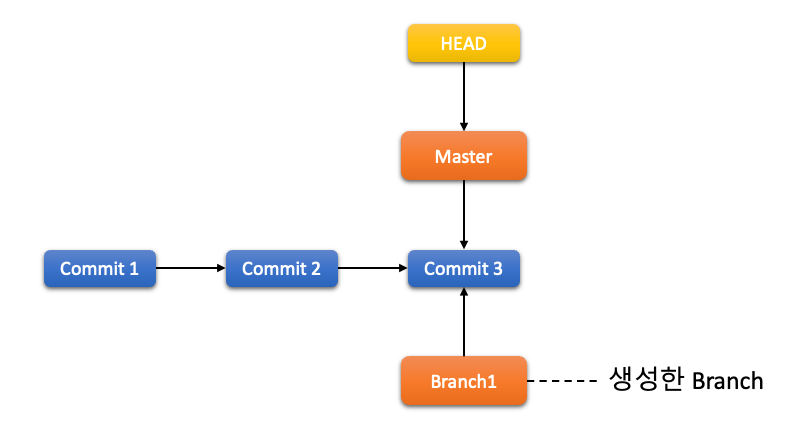
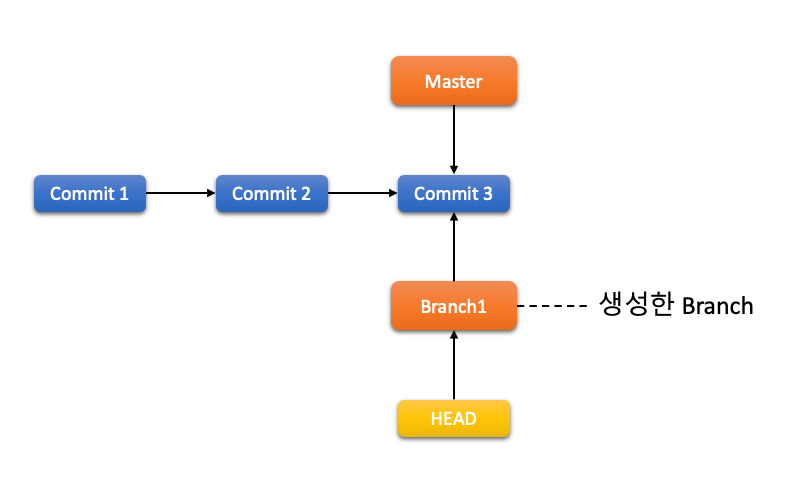
Merge의 기초

Changed region(s): [[0.0312, 0.03, 0.9688, 0.9607], [0.75, 0.6005, 0.9375, 0.6605]]

diff --git a/Etc/Git/documents/2.Branch.md b/Etc/Git/documents/2.Branch.md
@@ -1,6 +1,7 @@
 # 2장. **Git Branch**
 
   * [2-1 브랜치란?](#2-1-브랜치란)
+  * [2-2 브랜치와 Merge](#2-2-브랜치와-merge)
 
 ## 2-1 브랜치란?  
 브랜치는 기존 소스 코드와는 독립적으로 어떤 작업을 진행하기 위한 개념이다.  
@@ -15,5 +16,27 @@
         <center><img src="../images/2.Branch/Branch_Commit.png" width="70%" height="75%"></center>
       하지만 `git branch` 명령은 Branch를 생성하기만 하고 현재 Branch를 이동하지는 않는다.  
       Branch를 생성했을때의 HEAD는 아래와 같이 기존 작업을 하던 Branch를 가르킨다.  
+        <center><img src="../images/2.Branch/Create_Master_Head.png" width="60%"></center>  
+  2. Branch 이동  
+      생성한 브랜치로 이동하기 위해서는 `git checkout <브랜치명>` 을 사용하면 된다.  
+      `git checkout <브랜치명>`로 브랜치를 이동하면 HEAD가 다음과 같이 이동한다.  
         <center><img src="../images/2.Branch/Create_Branch_Head.png" width="60%"></center>  
+      `git log` 명령에 `--decorate` 옵션을 사용하면 브랜치가 어떤 커밋을 가리키는지 알 수 있다. 
       
+## 2-2 브랜치와 Merge  
+  보통 브랜치는 어떤 이슈가 발생했을 때 진행중인 개발 소스와 별개로 처리하기 위해, 현재의 소스에서 여러개의 버전이 만들어 져야할 때 생성해서 사용한다.  
+  이슈를 처리했을 경우에는 해당 이슈에 대한 검증을 마치고 그 코드를 운영중인 브랜치(master or main branch)에 머지하여 다시 하나의 브랜치로 관리한다.  
+  이때, 브랜치를 운영하는 순서는 아래와 같다.  
+  ```
+  1. 새로운 이슈를 처리위해 브랜치를 생성한다.  
+  2. 생성한 브랜치로 이동해 코드를 수정한다.  
+  3. 수정한 이슈에 대한 마치고 운영 브랜치로 Merge 한다.
+  ```
+
+  1. Merge의 기초  
+    Merge를 수행할 때는 운영중인 브랜치(목적지 브랜치)로 이동하고 머지를 진행한다.  
+    예를 들어 master 브랜치에 merge를 하려면 master 브랜치에서 작업을 진행해야 한다는 의미이다.  
+    merge를 하기위한 명령어는 다음과 같다.  
+    `git merge <merge할 브랜치명>`
+    또한, merge를 진행하고 나면 merge된 브랜치는 이제 필요가 없어진다.  
+    필요없는 브랜치를 삭제하기 위해서는 `git branch -d <브랜치명>` 명령을 사용한다.
